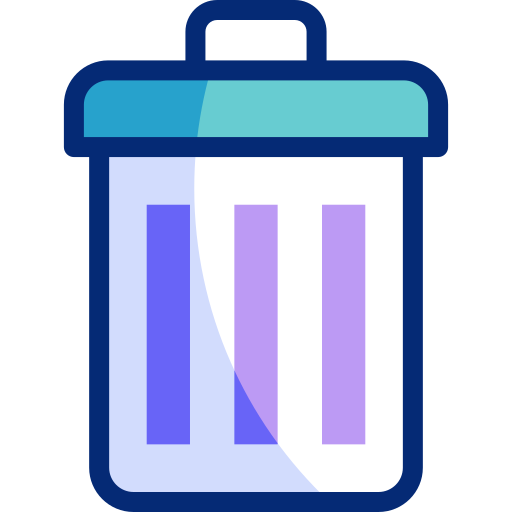
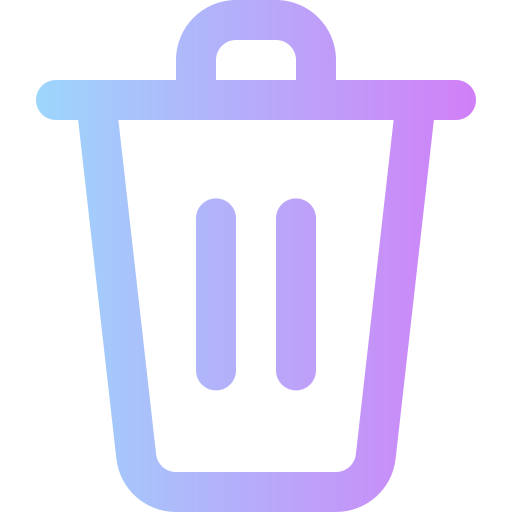
modal wimdow

diff --git a/src/components/ContactItem/ContactItem.jsx b/src/components/ContactItem/ContactItem.jsx
@@ -3,7 +3,8 @@ import './ContactItem.scss';
 
 import womenImg from './img/woman.png';
 import menImg from './img/man.png';
-import deleteIcon from './img/delete.gif';
+import deleteIcon from './img/delete.png';
+import editIcon from './img/edit.png';
 import heardFalse from '../../pages/AddContact/img/heafdFalse.png'
 import heardTrue from '../../pages/AddContact/img/heafdTrue.png'
 
@@ -70,7 +71,7 @@ export default function ContactItem({ stor, deleteContact, editContact }) {
   const [deleteModalShow, setDeleteModalShow] = useState(false);
   const [contactToShow, setContactToShow] = useState(null);
 
-  const filteredContacts = stor.search ? stor.contacts.filter(contact => `${contact.firstName} ${contact.lastName} ${contact.phone} ${contact.phone} ${contact.phone} `.includes(stor.search)) : stor.contacts
+  const filteredContacts = stor.search ? stor.contacts.filter(contact => `${contact.firstName} ${contact.lastName} ${contact.phone} ${contact.email} ${contact.gender} ${contact.status}`.includes(stor.search)) : stor.contacts
   
   const handleDeleteClick = (contact) => {
     setContactToShow(contact);
@@ -93,21 +94,17 @@ export default function ContactItem({ stor, deleteContact, editContact }) {
   return (
     <div className='containerBlock'>
       {filteredContacts.map(contact => (
-        <div className='contackBlock' key={contact.id}>
-          <img onClick={() => handleInfoClick(contact)} className='contactImg' src={contact.gender === 'women' ? womenImg : menImg} alt="" />
+        <div className='contactBlock' key={contact.id}>
+          <img onClick={() => handleInfoClick(contact)} className='contactImg' src={contact.gender === 'women' ? womenImg : menImg} alt="" title="Детальніше" />
           <div className="contactContent">
             <h3>{contact.firstName} {contact.lastName}</h3>
             <p>{contact.phone}</p>
             <p>{contact.email}</p>
             <p>{contact.status}</p>
             <div className="btnGroup">
-              <button
-                className="contactBtn"
-                onClick={() => handleDeleteClick(contact)}
-              >
-                <img className='deleteImg' src={deleteIcon} alt="Delete" />
+              <button className="contactBtn" onClick={() => handleDeleteClick(contact)}><img className='deleteImg' src={deleteIcon} alt="Delete" />
               </button>
-              <button className="contactBtn" onClick={() => editContact(contact.id)}>Edit</button>
+              <button className="contactBtn" onClick={() => editContact(contact.id)}><img className='deleteImg' src={editIcon} alt="Edit" /></button>
             </div>
           </div>
         </div>

diff --git a/src/components/ContactItem/ContactItem.scss b/src/components/ContactItem/ContactItem.scss
@@ -3,7 +3,7 @@
     flex-wrap: wrap;
     gap: 20px; 
 
-  .contackBlock {
+  .contactBlock {
     display: flex;
     background-color: #f3e8ff;
     border-radius: 70px;
@@ -29,30 +29,24 @@
 
         .contactBtn {
           display: inline-block;
-          margin-right: 15px;
-          padding: 8px 20px;
-          background-color: #6c63ff;
+          margin-right: 10px;
+          padding: 0px;
+          background-color: #f3e8ff;
           color: white;
           font-weight: bold;
           border: none;
           border-radius: 12px;
           cursor: pointer;
-          box-shadow: 0 4px 8px rgba(108, 99, 255, 0.3);
           transition: background-color 0.3s ease, transform 0.2s ease, box-shadow 0.3s ease;
 
           &:hover {
-            background-color: #8477ff;
             transform: scale(1.05);
-            box-shadow: 0 6px 12px rgba(108, 99, 255, 0.4);
           }
         }
 
         .deleteImg{
-          width: 50px;
+          width: 35px;
 
-          &{
-            background-image: url();
-          }
         }
       }
     }
@@ -60,7 +54,7 @@
 }
 
 @media screen and (max-width: 1400px) {
-    .contackBlock {
+    .contactBlock {
         flex-direction: column;
         align-items: center;
         
@@ -86,14 +80,14 @@
     flex-direction: column;
   }
 
-  .contackBlock {
+  .contactBlock {
     width: 100%;
     flex-direction: row;
   }
 }
 
 @media screen and (max-width: 576px){
-  .contackBlock {
+  .contactBlock {
     flex-direction: column;
   }
 }

diff --git a/src/App.jsx b/src/App.jsx
@@ -133,9 +133,12 @@ function App() {
   }
 
   const handleNewContact = (newContact) => {
+  setStor(prevStor => {
     const contacts = [...prevStor.contacts, newContact]
-    setStor(prevStor => {return {...prevStor, contacts}})
-  }
+    return { ...prevStor, contacts }
+  })
+}
+
 
   const deleteContact = (id) => {
     const contacts = stor.contacts.filter(contact => contact.id !== id)
@@ -154,11 +157,10 @@ function App() {
 
   return (
     <Router>
-      <Header searchBySymbols={searchBySymbols}/>
       <Routes>
-        <Route path='/' element={<ContactList stor={stor} deleteContact={deleteContact}/>}/>
-        <Route path='/add-contact' element={<AddContact addNewContact={handleNewContact}/>}/>
-        <Route path='/edit-contact/:id' element={<EditContact updateContact={handleEditContact} stor={stor}/>}/>
+        <Route path='/' element={<><Header searchBySymbols={searchBySymbols}/><ContactList stor={stor} deleteContact={deleteContact}/></>}/>
+        <Route path='/add-contact' element={<><Header searchBySymbols={searchBySymbols}/><AddContact addNewContact={handleNewContact}/></>}/>
+        <Route path='/edit-contact/:id' element={<><Header searchBySymbols={searchBySymbols}/><EditContact updateContact={handleEditContact} stor={stor}/></>}/>
         <Route path='*' element={<NotFound/>}/>
       </Routes>
     </Router>

diff --git a/src/components/SideBar/SideBar.jsx b/src/components/SideBar/SideBar.jsx
@@ -1,7 +1,7 @@
 import './SideBar.scss'
 
 export default function SideBar({ stor }) {
-    const filteredContacts = stor.search ? stor.contacts.filter(contact => `${contact.firstName} ${contact.lastName} ${contact.phone} ${contact.phone} ${contact.phone} `.includes(stor.search)) : stor.contacts
+    const filteredContacts = stor.search ? stor.contacts.filter(contact => `${contact.firstName} ${contact.lastName} ${contact.phone} ${contact.email} ${contact.gender} ${contact.status} `.includes(stor.search)) : stor.contacts
 
     const totalContacts = filteredContacts.length
     const statusCounts = {
@@ -15,8 +15,6 @@ export default function SideBar({ stor }) {
     filteredContacts.forEach(contact => {
         statusCounts[contact.status] +=1
     });
-
-    console.log(statusCounts);
     
     return(
         <aside className="container">

diff --git a/src/pages/AddContact/AddContact.jsx b/src/pages/AddContact/AddContact.jsx
@@ -97,7 +97,7 @@ export default function AddContact({ addNewContact }) {
                                         <option value="work">Work</option>
                                         <option value="family">Family</option>
                                         <option value="friends">Friends</option>
-                                        <option value="friends">Privat</option>
+                                        <option value="privat">Privat</option>
                                         <option value="others">Others</option>
                                     </Field>
                                     <div className="error-wrapper">

diff --git a/src/pages/NotFound/NotFound.css b/src/pages/NotFound/NotFound.css
@@ -21,6 +21,7 @@ body {
     animation: moveClouds 60s linear infinite;
     animation-fill-mode: both;
     animation-play-state: running;
+    
 }
 
 .cloud1 {
@@ -181,7 +182,7 @@ span{
 
 .text1 {
     font-size: 28px;
-    margin: 10px 0;
+    margin: 5px 0;
 }
 
 .text2 {
@@ -192,7 +193,6 @@ span{
 .text3 {
     font-size: 16px;
     color: #666;
-    margin-top: 30px;
 }
 
 .text3 strong {
